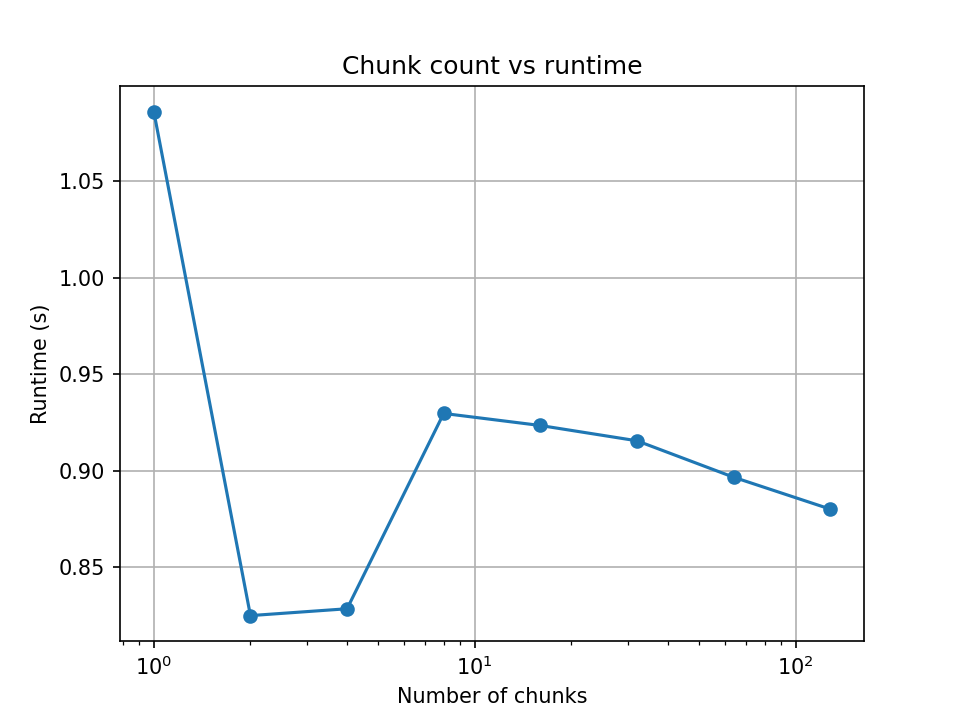
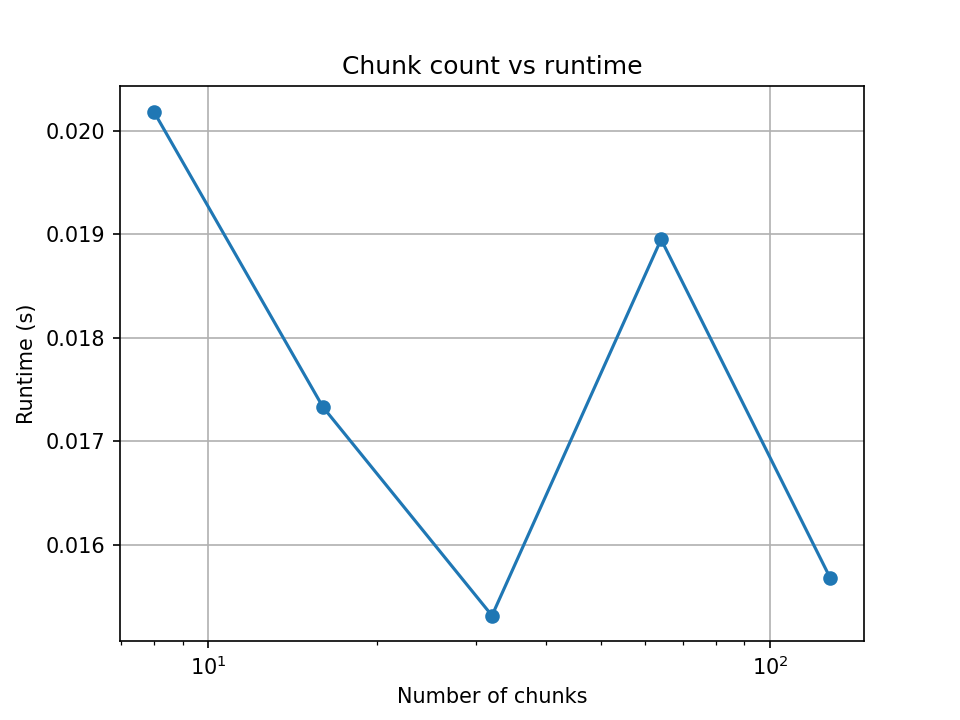
Refactoring functions for parallel Mandelbrot

diff --git a/mandelbrot_parallel.py b/mandelbrot_parallel.py
@@ -6,7 +6,7 @@ import os
 import time
 import statistics
 import matplotlib.pyplot as plt
-
+from multiprocessing import Pool
 
 
 #lesson4 milestone 1
@@ -49,15 +49,16 @@ def mandelbrot_serial(N, x_min, x_max, y_min, y_max, max_iter=100):
     return mandelbrot_chunk(0, N, N, x_min, x_max, y_min, y_max, max_iter)
 
 
-#lesson 4 milestone 2 
-
+# lesson 4 milestone 2
 def _worker(args):
     return mandelbrot_chunk(*args)
 
-#lesson 5 milestone 1: n_chunks=None
-def mandelbrot_parallel(N, x_min, x_max, y_min, y_max, max_iter=100, n_workers=4,n_chunks=None ):
-    
 
+# lesson 5 milestone 1
+def mandelbrot_parallel(
+    N, x_min, x_max, y_min, y_max,
+    max_iter=100, n_workers=4, n_chunks=None, pool=None
+):
     if n_chunks is None:
         n_chunks = n_workers
 
@@ -69,13 +70,19 @@ def mandelbrot_parallel(N, x_min, x_max, y_min, y_max, max_iter=100, n_workers=4
         row_end = min(row + chunk_size, N)
         chunks.append((row, row_end, N, x_min, x_max, y_min, y_max, max_iter))
         row = row_end
-    
+
+    if pool is not None:
+        return np.vstack(pool.map(_worker, chunks))
+
     tiny = [(0, 8, 8, x_min, x_max, y_min, y_max, max_iter)]
 
     with Pool(processes=n_workers) as pool:
+        pool.map(_worker, tiny)   # warm-up: load JIT cache in workers
         parts = pool.map(_worker, chunks)
 
     return np.vstack(parts)
+
+
 
 
 if __name__ == "__main__":
@@ -118,24 +125,23 @@ if __name__ == "__main__":
     for n_workers in range(1, os.cpu_count() + 1):
         n_chunks = 4 * n_workers
 
-        # warm-up
-        _ = mandelbrot_parallel(
-            N, x_min, x_max, y_min, y_max,
-            max_iter,
-            n_workers=n_workers,
-            n_chunks=n_chunks
-        )
+        tiny = [(0, 8, 8, x_min, x_max, y_min, y_max, max_iter)]
 
-        times = []
-        for _ in range(3):
-            t0 = time.perf_counter()
-            mandelbrot_parallel(
-                N, x_min, x_max, y_min, y_max,
-                max_iter,
-                n_workers=n_workers,
-                n_chunks=n_chunks
-            )
-            times.append(time.perf_counter() - t0)
+        with Pool(processes=n_workers) as pool:
+            # warm-up inside the same pool
+            pool.map(_worker, tiny)
+
+            times = []
+            for _ in range(3):
+                t0 = time.perf_counter()
+                mandelbrot_parallel(
+                    N, x_min, x_max, y_min, y_max,
+                    max_iter,
+                    n_workers=n_workers,
+                    n_chunks=n_chunks,
+                    pool=pool
+                )
+                times.append(time.perf_counter() - t0)
 
         t_par = statistics.median(times)
         speedup = t_serial / t_par
@@ -149,7 +155,7 @@ if __name__ == "__main__":
         )
 
     workers = [r[0] for r in results]
-    speedups = [r[2] for r in results]
+    speedups = [r[3] for r in results]
 
     plt.figure()
     plt.plot(workers, speedups, marker="o", label="Measured")
@@ -164,40 +170,38 @@ if __name__ == "__main__":
 
     #lesson 5 milestone 2: n_chunks experiment 
     print("\n--- chunk sweep ---")
-    n_workers = os.cpu_count()
-
-    chunk_values = [1, 2, 4, 8, 16, 32, 64, 128]
+    n_workers = 8
 
     chunk_results = []
 
-    for n_chunks in chunk_values:
+    for mult in [1, 2, 4, 8, 16]:
+        n_chunks = mult * n_workers
 
-        # warm-up
-        _ = mandelbrot_parallel(
-            N, x_min, x_max, y_min, y_max,
-            max_iter,
-            n_workers=n_workers,
-            n_chunks=n_chunks
-        )
+        tiny = [(0, 8, 8, x_min, x_max, y_min, y_max, max_iter)]
 
-        times = []
-        for _ in range(3):
-            t0 = time.perf_counter()
+        with Pool(processes=n_workers) as pool:
+            pool.map(_worker, tiny)
 
-            mandelbrot_parallel(
-                N, x_min, x_max, y_min, y_max,
-                max_iter,
-                n_workers=n_workers,
-                n_chunks=n_chunks
-            )
+            times = []
+            for _ in range(3):
+                t0 = time.perf_counter()
 
-            times.append(time.perf_counter() - t0)
+                mandelbrot_parallel(
+                    N, x_min, x_max, y_min, y_max,
+                    max_iter,
+                    n_workers=n_workers,
+                    n_chunks=n_chunks,
+                    pool=pool
+                )
+
+                times.append(time.perf_counter() - t0)
 
         t = statistics.median(times)
+        lif = n_workers * t / t_serial - 1
 
-        chunk_results.append((n_chunks, t))
+        chunk_results.append((n_chunks, t, lif))
 
-        print(f"{n_chunks:4d} chunks : {t:.4f}s")
+        print(f"{n_chunks:4d} chunks : {t:.4f}s, LIF={lif:.2f}")
 
     chunks = [r[0] for r in chunk_results]
     times = [r[1] for r in chunk_results]
@@ -212,3 +216,4 @@ if __name__ == "__main__":
 
     plt.savefig("mandelbrot_chunk_scaling.png", dpi=150)
     plt.show()
+    

diff --git a/comparison.py b/comparison.py
@@ -1,6 +1,9 @@
 import numpy as np
 import time
 import statistics
+from multiprocessing import Pool
+from mandelbrot_parallel import _worker, mandelbrot_parallel
+
 
 from mandelbrot import (
     compute_mandelbrot_grid,
@@ -8,7 +11,7 @@ from mandelbrot import (
     compute_mandelbrot_numba,
 )
 
-from mandelbrot_parallel import mandelbrot_parallel
+
 
 
 def benchmark(func, *args, n_runs=3):
@@ -52,25 +55,25 @@ if __name__ == "__main__":
         x_min, x_max, y_min, y_max,
         N, N, max_iter
     )
+ 
+    #Multiprocessing
+    
+    tiny = [(0, 8, 8, x_min, x_max, y_min, y_max, max_iter)]
 
-    # Parallel
-    _ = mandelbrot_parallel(
-        N, x_min, x_max, y_min, y_max,
-        max_iter,
-        n_workers=8,
-        n_chunks=2
-    )
-
-    times = []
-    for _ in range(3):
-        t0 = time.perf_counter()
-        result_parallel = mandelbrot_parallel(
-            N, x_min, x_max, y_min, y_max,
-            max_iter,
-            n_workers=8,
-            n_chunks=2
-        )
-        times.append(time.perf_counter() - t0)
+    with Pool(processes=8) as pool:
+        pool.map(_worker, tiny)
+    
+        times = []
+        for _ in range(3):
+            t0 = time.perf_counter()
+            result_parallel = mandelbrot_parallel(
+                N, x_min, x_max, y_min, y_max,
+                max_iter,
+                n_workers=8,
+                n_chunks=32,
+                pool = pool
+            )
+            times.append(time.perf_counter() - t0)
 
     t_parallel = statistics.median(times)
 
